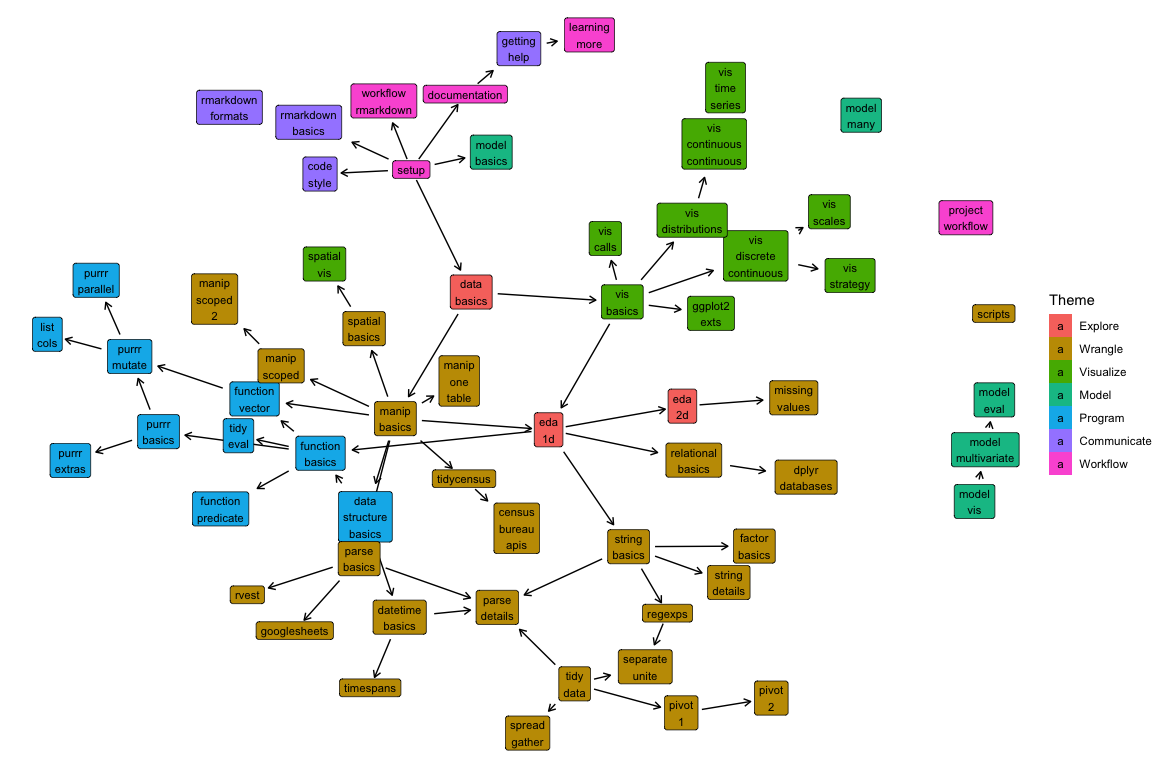
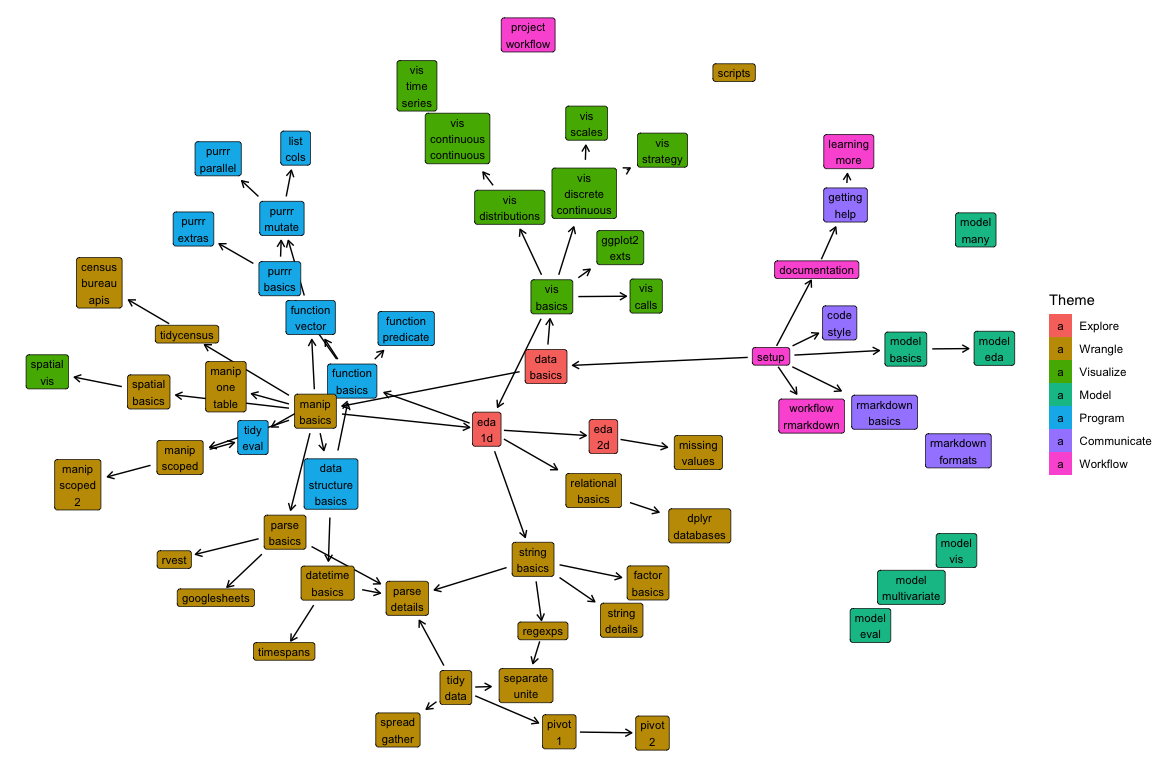
add model-eda

Changed region(s): [[0.0, 0.0, 0.9062, 1.0], [0.8125, 0.25, 0.875, 0.3438], [0.0625, 0.3125, 0.125, 0.4062]]

diff --git a/docs/model-eda.md b/docs/model-eda.md
@@ -1,0 +1,19 @@
+---
+title: Model EDA
+---
+
+<!-- Generated automatically from model-eda.yml. Do not edit by hand -->
+
+# Model EDA <small class='model'>[model]</small>
+<small>(Builds on: [Model basics](model-basics.md))</small>
+
+There are an infinite number of models that could approximate your data. In this
+unit, you'll learn how to narrow down your search by using EDA to understand 
+the functional form of your data. You'll also learn how to specify functional
+forms using formulas.
+
+## Readings
+
+  * [Determine functional form](https://dcl-model.stanford.edu/determine_functional_form.html) [model-3]
+
+

diff --git a/docs/model-basics.md b/docs/model-basics.md
@@ -5,7 +5,8 @@ title: Model basics
 <!-- Generated automatically from model-basics.yml. Do not edit by hand -->
 
 # Model basics <small class='model'>[model]</small>
-<small>(Builds on: [Setup](setup.md))</small>
+<small>(Builds on: [Setup](setup.md))</small>  
+<small>(Leads to: [Model EDA](model-eda.md))</small>
 
 It's hard to understand data just by looking at it in a tibble. Visualizations
 are one way to gain a better understanding of the relationships present in
